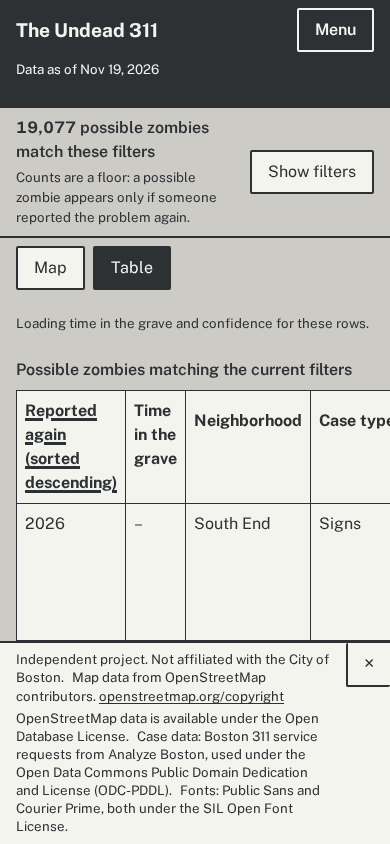
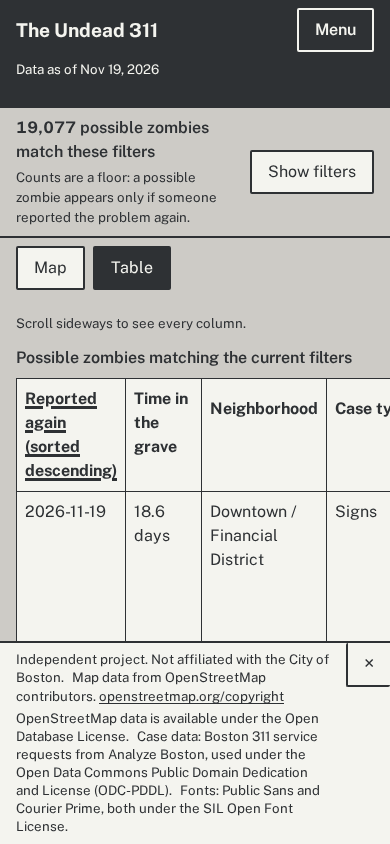
fix(web): reviewer-ux findings, scroll hints, same-point sketch, 404 without plaque, new captures
Kiro-Agent: web
Kiro-Run: manual

diff --git a/web/src/components/AutopsyCard.tsx b/web/src/components/AutopsyCard.tsx
@@ -64,25 +64,29 @@ const OBJECTIONS_SHOWN = 2;
  * A small sketch in place of the body diagram on a postmortem form: the street as a band, the first report and the re-report as
  * markers with the distance between them. A sketch, not a map: the marker positions are fixed and the distance is the number.
  */
-function LocationDiagram({ street, distance }: { street: string | null | undefined; distance: string }) {
+function LocationDiagram({ street, distance, samePoint }: { street: string | null | undefined; distance: string; samePoint: boolean }) {
   const label = t("card.diagram_label", { street: street || t("card.place"), distance });
   return (
     <figure className="autopsy-figure" data-testid="location-diagram">
       <svg viewBox="0 0 260 100" role="img" aria-label={label} focusable="false">
         <rect x="4" y="46" width="252" height="22" className="diagram-street" />
         <line x1="10" y1="57" x2="250" y2="57" className="diagram-centerline" />
-        <line x1="60" y1="26" x2="200" y2="26" className="diagram-dimension" />
-        <line x1="60" y1="20" x2="60" y2="32" className="diagram-dimension" />
-        <line x1="200" y1="20" x2="200" y2="32" className="diagram-dimension" />
+        {samePoint ? null : (
+          <>
+            <line x1="60" y1="26" x2="200" y2="26" className="diagram-dimension" />
+            <line x1="60" y1="20" x2="60" y2="32" className="diagram-dimension" />
+            <line x1="200" y1="20" x2="200" y2="32" className="diagram-dimension" />
+          </>
+        )}
         <text x="130" y="15" textAnchor="middle" className="diagram-text">
           {distance}
         </text>
-        <circle cx="60" cy="57" r="9" className="diagram-first" />
-        <circle cx="200" cy="57" r="10" className="diagram-again" />
-        <text x="60" y="88" textAnchor="middle" className="diagram-text">
+        <circle cx={samePoint ? 124 : 60} cy="57" r="9" className="diagram-first" />
+        <circle cx={samePoint ? 136 : 200} cy="57" r="10" className="diagram-again" />
+        <text x={samePoint ? 118 : 60} y="88" textAnchor={samePoint ? "end" : "middle"} className="diagram-text">
           {t("card.diagram_first")}
         </text>
-        <text x="200" y="88" textAnchor="middle" className="diagram-text">
+        <text x={samePoint ? 142 : 200} y="88" textAnchor={samePoint ? "start" : "middle"} className="diagram-text">
           {t("card.diagram_again")}
         </text>
       </svg>
@@ -189,7 +193,7 @@ export function AutopsyCard({ card, recordConfirmed = false }: { card: CardWithP
             <dt>{t("card.cause_of_death")}</dt>
             <dd>{t(`labels.${card.cause_of_death}`)}</dd>
           </div>
-          <div>
+          <div className="field-wide">
             <dt>{t("card.confidence")}</dt>
             <dd>
               {t("card.confidence_value", { percent: Math.round(card.confidence * 100) })}
@@ -217,7 +221,7 @@ export function AutopsyCard({ card, recordConfirmed = false }: { card: CardWithP
           </div>
         </dl>
 
-        {distance === null ? null : <LocationDiagram street={card.original.street} distance={distance} />}
+        {distance === null ? null : <LocationDiagram street={card.original.street} distance={distance} samePoint={meters !== null && meters < 5} />}
 
         <SecondOpinion card={card} />
 

diff --git a/web/e2e/design.spec.ts b/web/e2e/design.spec.ts
@@ -22,12 +22,27 @@ test("every page fits the screen width, with no horizontal scroll and no page ta
 });
 
 test("the form pages open with the title and the date plaque", async ({ page }) => {
-  for (const path of ["/street", "/repeat", "/scorecard", "/durability", "/methods", "/judge", "/no-such-page"]) {
+  for (const path of ["/street", "/repeat", "/scorecard", "/durability", "/methods", "/judge"]) {
     await page.goto(path);
     const sheet = page.locator(".page.form-sheet");
     await expect(sheet.locator(".form-head h1")).toBeVisible();
     await expect(sheet.getByTestId("plaque")).toContainText("Records through");
   }
+});
+
+test("the 404 page has a title and a way back, and no plaque", async ({ page }) => {
+  await page.goto("/no-such-page");
+  await expect(page.getByRole("heading", { level: 1, name: "This page stayed buried" })).toBeVisible();
+  await expect(page.getByTestId("plaque")).toHaveCount(0);
+  await expect(page.getByRole("link", { name: "Go back to the map" })).toBeVisible();
+});
+
+test("tables that scroll sideways on a phone say so", async ({ page, isMobile }) => {
+  await page.goto("/durability");
+  await expect(page.getByTestId("leaderboard")).toBeVisible();
+  const hint = page.locator(".scroll-hint").first();
+  if (isMobile) await expect(hint).toBeVisible();
+  else await expect(hint).toBeHidden();
 });
 
 test("repeat offenders: 25 rows first, 'Show 25 more' adds a page and writes n to the address, and sorting is kept", async ({ page }) => {

diff --git a/web/src/components/AutopsyCard.test.tsx b/web/src/components/AutopsyCard.test.tsx
@@ -142,6 +142,12 @@ describe("AutopsyCard as a mock postmortem report (REQ-WEB-CARD.1-3, design revi
     expect(svg.getAttribute("aria-label")).toBe("Sketch of the two reports on Dorchester Ave: the first report and the report after the closure, 0 m apart.");
     expect(within(screen.getByTestId("location-diagram")).getByText("Dorchester Ave. Sketch, not to scale.")).toBeTruthy();
   });
+  it("draws overlapping markers and no distance line for a same-point pair, and the full distance line otherwise (review follow-up)", () => {
+    const { container, rerender } = render(<AutopsyCard card={CARD} />);
+    expect(container.querySelectorAll(".diagram-dimension")).toHaveLength(0);
+    rerender(<AutopsyCard card={{ ...CARD, rereport: { ...CARD.rereport, lat: 42.3003, lon: -71.05 } }} />);
+    expect(container.querySelectorAll(".diagram-dimension")).toHaveLength(3);
+  });
   it("shows the top two objections under 'Why this might not be a zombie', the rest behind Show more, with a Skeptic byline", async () => {
     const user = userEvent.setup();
     render(<AutopsyCard card={{ ...CARD, skeptic_notes: MANY }} />);

diff --git a/web/src/components/PageHeader.tsx b/web/src/components/PageHeader.tsx
@@ -9,16 +9,18 @@ import { t } from "../lib/t";
  * rubber-stamp plaque the time-lapse uses (design-system.md). The plaque holds only the date the records run to; the numbers
  * below it are plain facts. Pages put this first inside an element with the `form-sheet` class (app.css).
  */
-export function PageHeader({ title, titleId, children }: { title: string; titleId?: string; children?: ReactNode }) {
+export function PageHeader({ title, titleId, plaque = true, children }: { title: string; titleId?: string; plaque?: boolean; children?: ReactNode }) {
   const status = useData("status.json", parseStatus);
   const date = status.status === "ok" ? formatDate(status.data.data_end ?? status.data.last_run) : null;
   return (
     <header className="form-head">
       <h1 id={titleId}>{title}</h1>
+      {plaque ? (
       <p className="plaque" data-testid="plaque" style={date ? undefined : { visibility: "hidden" }}>
         <span className="plaque-label">{t("theme.plaque_label")}</span>
         <span className="plaque-date">{date ?? "\u00a0"}</span>
       </p>
+      ) : null}
       {children}
     </header>
   );

diff --git a/web/src/components/FunnelChart.tsx b/web/src/components/FunnelChart.tsx
@@ -1,4 +1,5 @@
 import { useState } from "react";
+import { ScrollHint } from "./ScrollHint";
 import { yTitleAttrs, yTitle, tickPct, chartDims, intensityText, leaderboard, limitGrid, linePath, linear, logScale, niceTicks, unusualDirection } from "../lib/charts";
 import { groupLabel, groupTitle } from "../lib/labels";
 import type { FunnelLimit, Group } from "../lib/parse";
@@ -113,6 +114,7 @@ export function Leaderboard({ groups, limits, kind }: { groups: readonly Group[]
   const hasIntensity = all.some((g) => intensityText(g) !== null);
   return (
     <>
+    <ScrollHint />
     <div className="table-wrap chart-table" tabIndex={0} role="region" aria-label={t("charts.leaderboard_caption")}>
       <table className="zombie-table" data-testid="leaderboard">
         <caption>{t("charts.leaderboard_caption")}</caption>

diff --git a/web/src/pages/RepeatPage.tsx b/web/src/pages/RepeatPage.tsx
@@ -1,5 +1,6 @@
 import { lazy, Suspense, useMemo, useState } from "react";
 import { Link, useSearchParams } from "react-router-dom";
+import { ScrollHint } from "../components/ScrollHint";
 import { ShowMore } from "../components/ShowMore";
 import { decodeShown, PAGE_SIZE, writeShown } from "../lib/paging";
 import { PageHeader } from "../components/PageHeader";
@@ -66,6 +67,7 @@ export default function RepeatPage() {
               <MapView rows={rows} selectedId={picked} onSelect={setPicked} />
             </Suspense>
           </div>
+          <ScrollHint />
           <div className="table-wrap" tabIndex={0} role="region" aria-label={t("repeat.caption")}>
             <table className="zombie-table" data-testid="repeat-table">
               <caption>{t("repeat.caption")}</caption>

diff --git a/web/src/components/SurvivalChart.tsx b/web/src/components/SurvivalChart.tsx
@@ -1,3 +1,4 @@
+import { ScrollHint } from "./ScrollHint";
 import { bandPath, dayTicks, tickPct, yTitle, yTitleAttrs, chartDims, curveKind, linePath, linear, niceTicks } from "../lib/charts";
 import { groupLabel } from "../lib/labels";
 import type { Curve } from "../lib/parse";
@@ -78,6 +79,7 @@ export function SurvivalTable({ curves }: { curves: readonly Curve[] }) {
   const sameHalf = curves.length > 1 && curves.every((c) => c.half_life === curves[0].half_life);
   return (
     <>
+    <ScrollHint />
     <div className="table-wrap chart-table" tabIndex={0} role="region" aria-label={t("charts.survival_table_caption")}>
       <table className="zombie-table" data-testid="survival-table">
         <caption>{t("charts.survival_table_caption")}</caption>

diff --git a/web/src/styles/app.css b/web/src/styles/app.css
@@ -889,3 +889,16 @@ select {
 }
 
 .street-page [data-testid="street-result"] { margin-top: var(--space-4); }
+
+/* Review follow-up: a hint above tables that scroll sideways on a phone, the title and plaque stacked, no copies behind a card inside the tour. */
+.scroll-hint { display: none; margin: 0 0 var(--space-1); }
+@media (max-width: 640px) {
+  .scroll-hint { display: block; }
+  .form-head { flex-direction: column; align-items: flex-start; }
+}
+.judge .autopsy::before, .judge .autopsy::after { display: none; }
+.judge .autopsy { margin: 0; }
+@media (min-width: 641px) {
+  .filters-panel { gap: var(--space-2); }
+  .hero-text { gap: var(--space-1); }
+}

diff --git a/web/src/components/ZombieTable.tsx b/web/src/components/ZombieTable.tsx
@@ -2,6 +2,7 @@ import { useState } from "react";
 import { Link } from "react-router-dom";
 import { formatGap } from "../lib/format";
 import { familyLabel } from "../lib/labels";
+import { ScrollHint } from "./ScrollHint";
 import { sortRows, type SortDir, type SortKey, type TableRow } from "../lib/table";
 import { t } from "../lib/t";
 
@@ -32,6 +33,7 @@ export function ZombieTable({ rows, search, loading = false }: { rows: readonly 
           {t("table.loading")}
         </p>
       ) : null}
+      <ScrollHint />
       <table className="zombie-table" data-testid="zombie-table">
         <caption>{t("table.caption")}</caption>
         <thead>

diff --git a/web/src/App.tsx b/web/src/App.tsx
@@ -20,7 +20,7 @@ import StreetPage from "./pages/StreetPage";
 function NotFound() {
   return (
     <div className="page form-sheet not-found" data-testid="not-found">
-      <PageHeader title={t("errors.not_found_heading")} />
+      <PageHeader title={t("errors.not_found_heading")} plaque={false} />
       <p>{t("errors.not_found")}</p>
       <p>
         <Link to="/" className="button-link button-primary">

diff --git a/web/src/lib/charts.ts b/web/src/lib/charts.ts
@@ -141,7 +141,7 @@ export interface ChartDims {
 export const NARROW_QUERY = "(max-width: 640px)";
 export function chartDims(narrow: boolean, tall: number): ChartDims {
   return narrow
-    ? { W: 340, H: tall - 10, M: { l: 44, r: 10, t: 32, b: 48 }, narrow }
+    ? { W: 340, H: tall - 10, M: { l: 44, r: 24, t: 32, b: 48 }, narrow }
     : { W: 640, H: tall, M: { l: 64, r: 16, t: 12, b: 44 }, narrow };
 }
 

diff --git a/web/src/components/ScrollHint.tsx b/web/src/components/ScrollHint.tsx
@@ -1,0 +1,6 @@
+import { t } from "../lib/t";
+
+/** One line above a table that is wider than a phone: the table scrolls sideways inside its box (shown under 640 px only, app.css). */
+export function ScrollHint() {
+  return <p className="scroll-hint count-note">{t("theme.scroll_hint")}</p>;
+}
